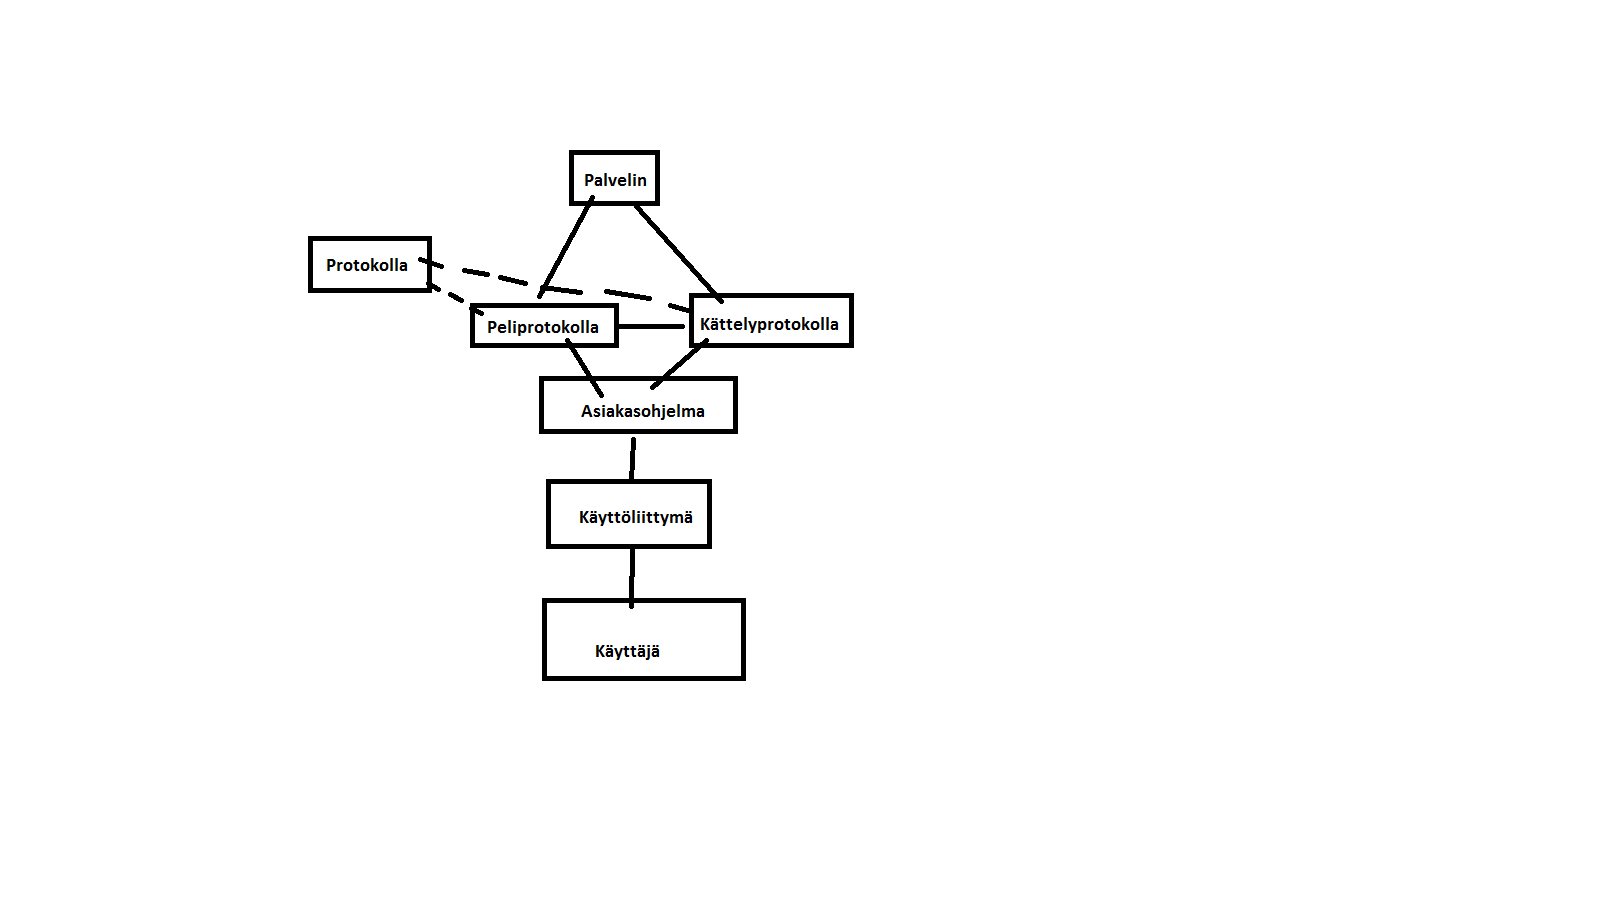
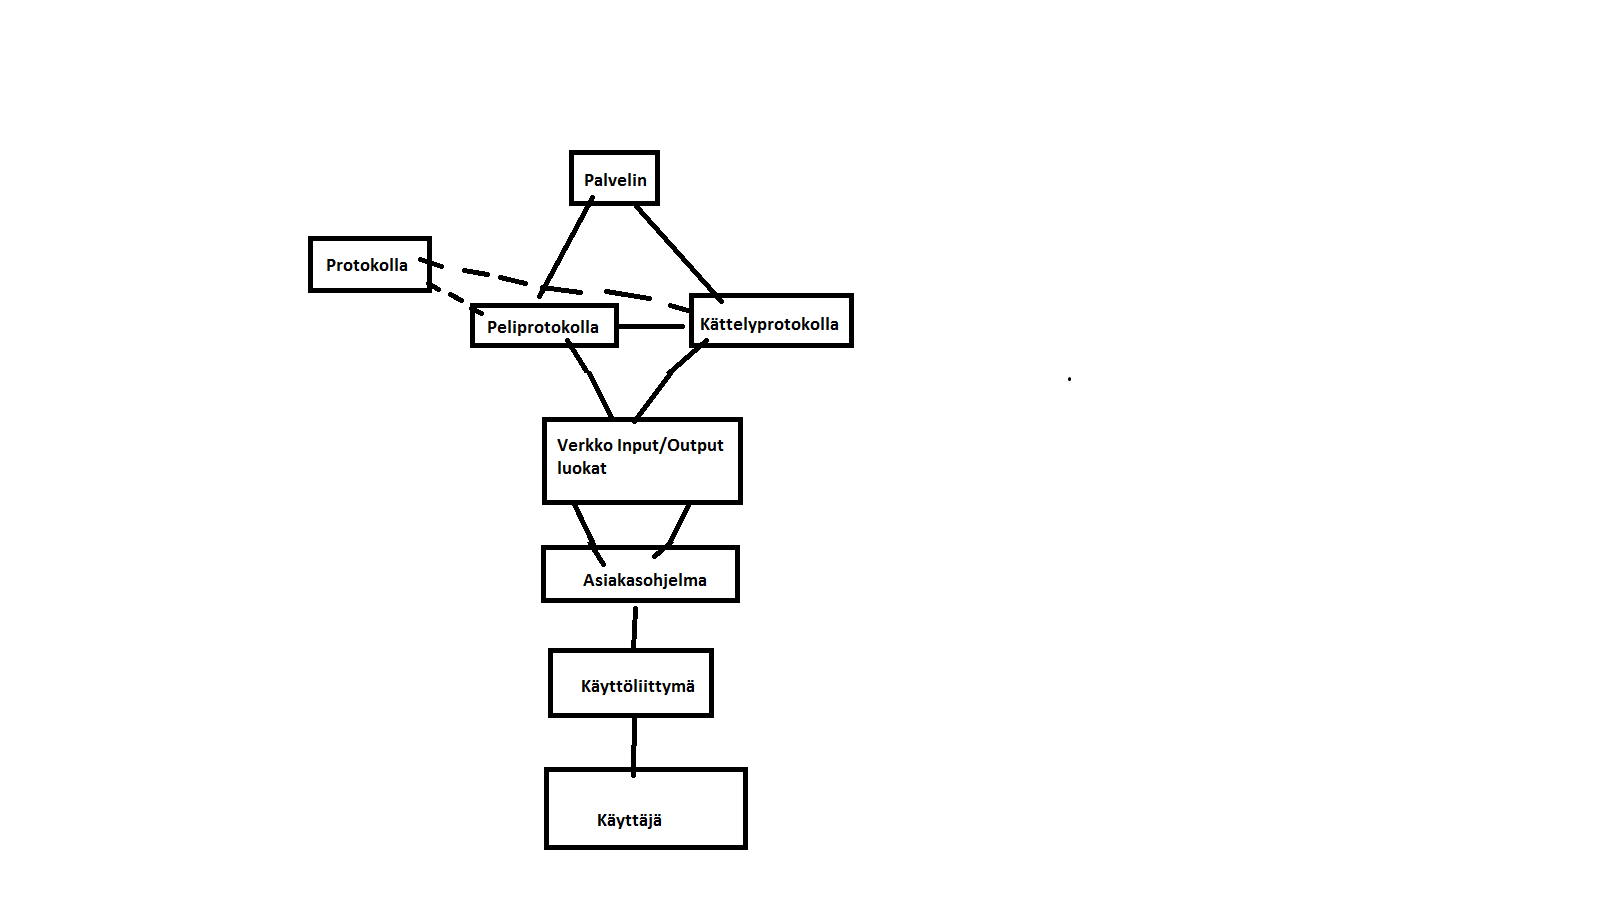
Updated luokkakaavio

Changed region(s): [[0.3109, 0.4027, 0.4664, 0.6814], [0.3109, 0.7124, 0.4664, 0.8673], [0.342, 0.8982, 0.4664, 0.9602]]

diff --git a/Server/src/BoulderShearsDocumentProtocolTest.java b/Server/src/BoulderShearsDocumentProtocolTest.java
@@ -1,0 +1,15 @@
+import static org.junit.Assert.*;
+
+import org.junit.Test;
+
+
+public class BoulderShearsDocumentProtocolTest
+{
+
+	@Test
+	public void test()
+	{
+		fail("Not yet implemented");
+	}
+
+}
